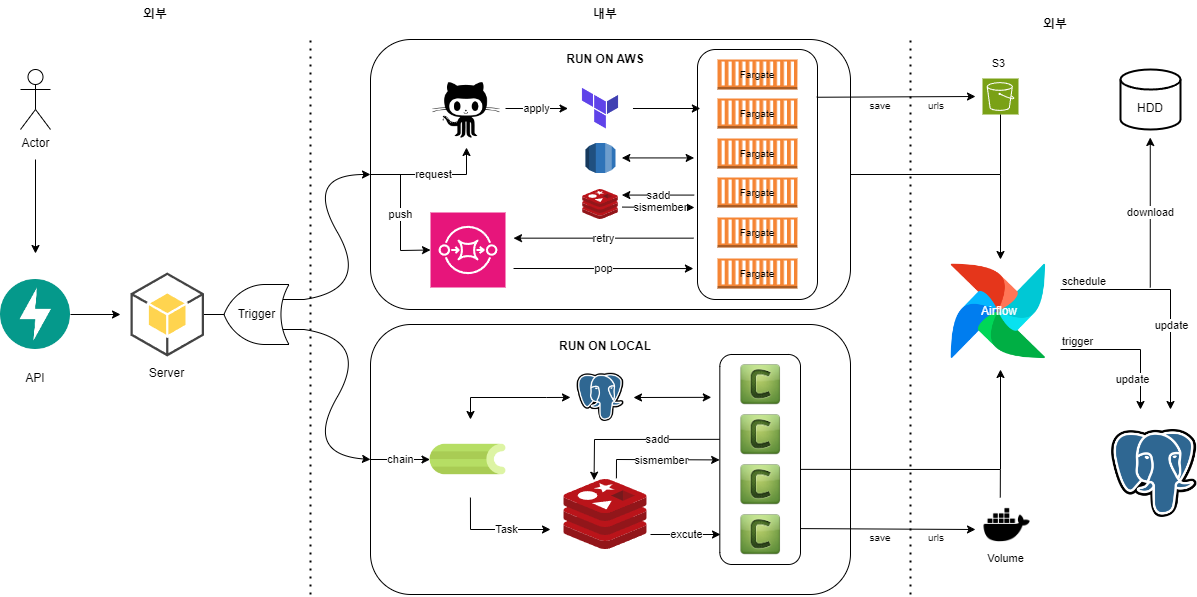
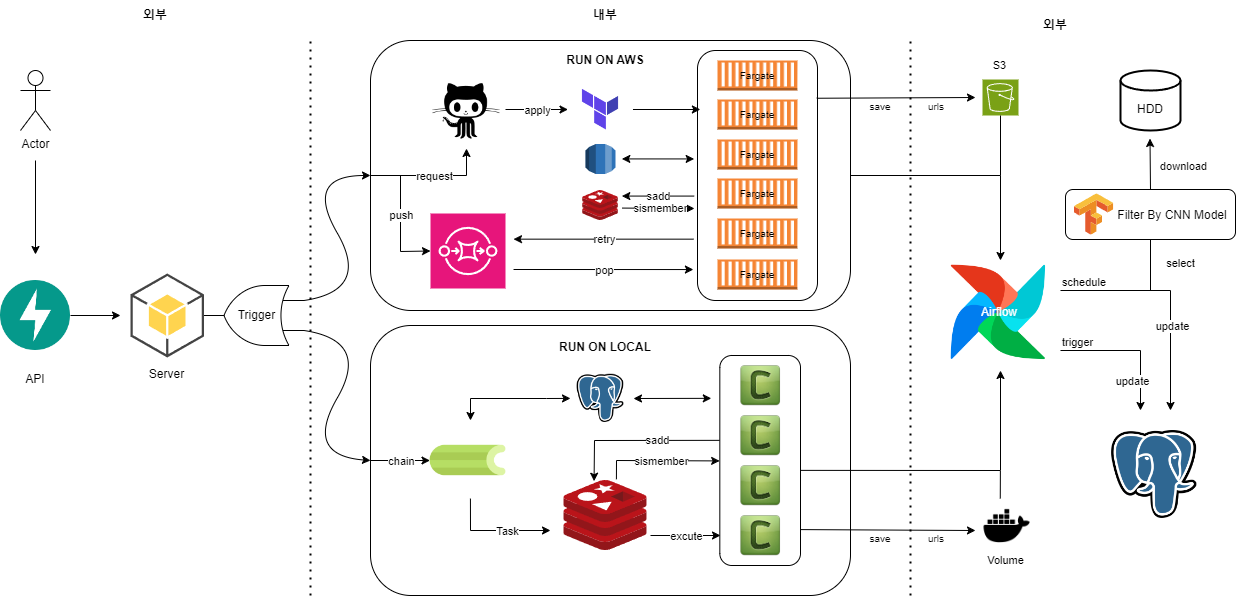
feat: 필터링 cnn 모델 틀 구현

diff --git a/ciftag/ml/filter.py b/ciftag/ml/filter.py
@@ -1,0 +1,149 @@
+import os
+import zipfile
+from typing import Optional, Tuple, List, Dict, Union
+from io import BytesIO
+
+import requests
+import numpy as np
+from PIL import Image
+
+from tensorflow.keras.applications import ResNet50
+from tensorflow.keras.applications.resnet50 import preprocess_input, decode_predictions
+from tensorflow.keras.preprocessing import image
+from sklearn.metrics.pairwise import cosine_similarity
+
+
+class ImageFilter:
+    def __init__(
+            self,
+            sample_image_path: Optional[str] = None,
+            target_size: Optional[Union[Tuple[int, int], None]] = None,
+            target_tags: Optional[List[str]] = None,
+            threshold: float = 0.8,
+            mode: str = "path"
+    ):
+        """
+        sample_image_path: 샘플 이미지 zip 파일 경로
+        target_size: 타겟 사이즈
+        target_tags: 타겟 이미지 태그
+        threshold: threshold
+        mode: image_sources 제공 형식 List[(byte/path)]
+        """
+        if sample_image_path is not None and target_size is None:
+            raise ValueError("샘플 이미지가 제공되면 target_size는 필수")
+
+        if mode not in ['byte', 'path']:
+            raise ValueError("mode는 'byte' 또는 'path' 중 택일")
+
+        self.mode = mode  # URL 또는 로컬 경로 모드
+        self.sample_image_path = sample_image_path
+        self.target_tags = target_tags
+        self.threshold = threshold
+        self.target_size = target_size
+
+        # ResNet50 모델 초기화
+        self.model = ResNet50(weights='imagenet', include_top=True)  # 분류용 모델
+        self.embedding_model = ResNet50(weights='imagenet', include_top=False, pooling='avg')  # 임베딩 추출용 모델
+
+        # 샘플 이미지 제공받을 시, 임베딩 미리 추출
+        if self.sample_image_path:
+            self.sample_embeddings = self.extract_and_embed_sample_images(self.sample_image_path)
+        else:
+            self.sample_embeddings = None
+
+    def extract_and_embed_sample_images(self, zip_file_path: str) -> np.ndarray:
+        """Zip 파일에서 이미지 추출 및 임베딩 계산"""
+        sample_embeddings = []
+        with zipfile.ZipFile(zip_file_path, 'r') as zip_ref:
+            zip_ref.extractall("extracted_samples")  # Zip 파일 추출
+            image_files = [os.path.join("extracted_samples", f) for f in os.listdir("extracted_samples")]
+
+            for img_file in image_files:
+                if img_file.lower().endswith(('.png', '.jpg', '.jpeg')):
+                    embedding = self.get_image_embedding(img_file)
+                    sample_embeddings.append(embedding)
+
+        return np.array(sample_embeddings)
+
+    def load_image(self, img_source) -> Image.Image:
+        """mode에 따라 이미지 URL 또는 로컬 경로에서 타겟 이미지를 불러오기"""
+        if self.mode == 'byte':
+            img = Image.open(BytesIO(img_source))
+        else:
+            img = Image.open(img_source)
+        return img
+
+    def get_image_embedding(self, img_source) -> np.ndarray:
+        """이미지에서 임베딩 추출"""
+        img = self.load_image(img_source)
+        img = img.resize(self.target_size)  # target_size로 리사이즈
+        img_array = image.img_to_array(img)
+        img_array = np.expand_dims(img_array, axis=0)
+        img_array = preprocess_input(img_array)
+
+        # 임베딩 벡터 추출
+        embedding = self.embedding_model.predict(img_array)
+        return embedding
+
+    def classify_image(self, img_source) -> bool:
+        """이미지 태그 분류"""
+        img = self.load_image(img_source)
+        img = img.resize(self.target_size)  # target_size로 리사이즈
+        img_array = image.img_to_array(img)
+        img_array = np.expand_dims(img_array, axis=0)
+        img_array = preprocess_input(img_array)
+
+        # 분류 예측
+        preds = self.model.predict(img_array)
+        decoded_preds = decode_predictions(preds, top=3)[0]
+
+        # 목표 태그와 일치하는지 확인
+        for _, label, score in decoded_preds:
+            if label in self.target_tags:
+                return True  # 태그가 일치하는 이미지
+        return False  # 태그가 일치하지 않는 이미지
+
+    def filter_by_similarity(self, image_source_with_file_name):
+        """샘플 이미지와의 유사도 기반 필터링"""
+        if self.sample_embeddings is None:
+            raise ValueError("샘플 이미지 설정 필요")
+
+        filtered_images = []
+
+        for file_name, img_source in image_source_with_file_name:
+            img_embedding = self.get_image_embedding(img_source)
+
+            # 샘플 이미지와의 유사도 계산
+            similarity = cosine_similarity(self.sample_embeddings, img_embedding)
+
+            # 유사도가 threshold 이상인 경우만 필터링
+            if np.max(similarity) > self.threshold:
+                filtered_images.append({file_name: img_source})
+
+        return filtered_images
+
+    def tag_based_filter(self, image_source_with_file_name):
+        """태그 기반 필터링"""
+        tag_filtered_images = []
+
+        for file_name, img_source in image_source_with_file_name:
+            if self.classify_image(img_source):
+                tag_filtered_images.append({file_name: img_source})
+
+        return tag_filtered_images
+
+    def combined_filtering(self, image_source_with_file_name: List[Dict[str:Union[bytes, str]]]):
+        """필수: 태그 기반 필터링 + 선택: 유사도 기반 필터링
+        image_source_with_file_name: {파일명: 이미지 소스 리스트}
+        """
+        # 1차: 태그 기반 필터링
+        tag_filtered_images = self.tag_based_filter(image_source_with_file_name)
+        print(f"태그 기반으로 필터링된 이미지 수: {len(tag_filtered_images)}")
+
+        # 2차: 샘플 이미지가 제공된 경우 유사도 기반 필터링
+        if self.sample_image_path is not None:
+            final_filtered_images = self.filter_by_similarity(tag_filtered_images)
+            print(f"유사도 기반으로 필터링된 이미지 수: {len(final_filtered_images)}")
+            return final_filtered_images
+        else:
+            return tag_filtered_images

diff --git a/setup.py b/setup.py
@@ -4,7 +4,7 @@ setup(
     name="ciftag",
     description="ciftag module",
     author="sjh",
-    version="0.1.1",
+    version="0.1.2",
     packages=find_packages(include=['ciftag']),
     scripts=['ciftag/bin/ciftag'],
     include_package_data=True,

diff --git a/ciftag/version.py b/ciftag/version.py
@@ -1,1 +1,1 @@
-version = "0.1.1"
+version = "0.1.2"
